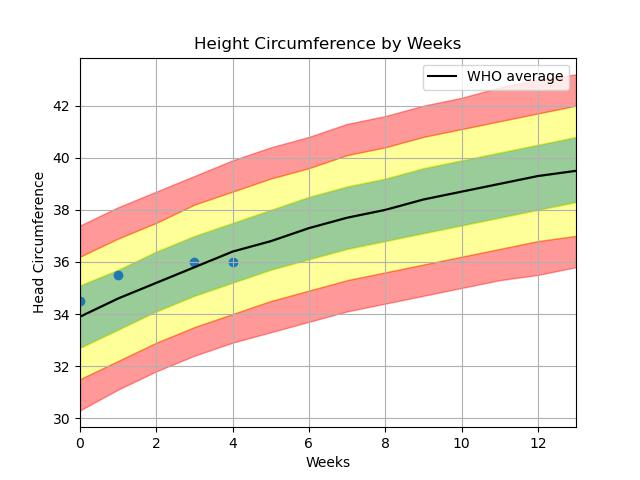
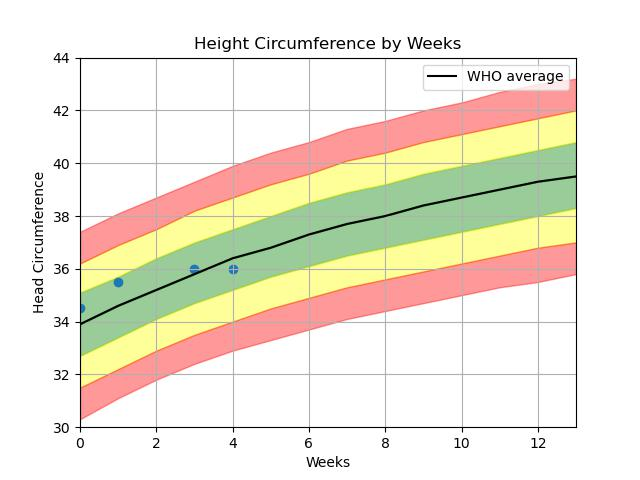
added weight/height graf

Changed region(s): [[0.0625, 0.1875, 0.9062, 0.9062], [0.0625, 0.0938, 0.125, 0.125], [0.875, 0.1562, 0.9062, 0.1875]]

diff --git a/templates/dashboard.html b/templates/dashboard.html
@@ -4,20 +4,43 @@
 <head>
     <meta charset="UTF-8">
     <title>Baby Dashboard</title>
+    <style>
+        * {
+            box-sizing: border-box;
+        }
 
+        .column {
+            float: left;
+            width: 33.33%;
+            padding: 5px;
+        }
+
+        /* Clearfix (clear floats) */
+        .row::after {
+            content: "";
+            clear: both;
+            display: table;
+        }
+    </style>
 </head>
 
 <body>
     <h1>This is a graph of the weight</h1>
     <div class="row">
         <div class="column">
-            <img src="/static/weight.jpg" style="width:20%">
+            <img src="/static/weight.jpg">
         </div>
         <div class="column">
-            <img src="/static/height.jpg" style="width:20%">
+            <img src="/static/height.jpg">
         </div>
         <div class="column">
-            <img src="/static/head.jpg" style="width:20%">
+            <img src="/static/head.jpg">
+        </div>
+    </div>
+
+    <div class="row2">
+        <div class="column">
+            <img src="/static/wh.jpg">
         </div>
     </div>
 </body>

diff --git a/app/plot_util.py b/app/plot_util.py
@@ -19,6 +19,8 @@ def plot_fcn(
     xlabel_name,
     ylabel_name,
     title_name,
+    xmin=0,
+    xmax=13,
 ):
     plt.figure()
     plt.fill_between(xx, df.SD0.values, df.SD1.values, color="green", alpha=0.4)
@@ -29,8 +31,8 @@ def plot_fcn(
     plt.fill_between(xx, df.SD2neg.values, df.SD1neg.values, color="yellow", alpha=0.4)
     plt.fill_between(xx, df.SD3neg.values, df.SD2neg.values, color="red", alpha=0.4)
     plt.scatter(x_J, y_J)
-    plt.xlim(xmin=0, xmax=13)
-    # plt.ylim(ymin=y_min, ymax=y_max)
+    plt.xlim(xmin=xmin, xmax=xmax)
+    plt.ylim(ymin=y_min, ymax=y_max)
     plt.grid()
     plt.xlabel(xlabel_name)
     plt.ylabel(ylabel_name)
@@ -89,7 +91,7 @@ def plot_height(data):
         x_J,
         y_J,
         40,
-        69,
+        67,
         ARTIFACT_PATH,
         "height.jpg",
         "Weeks",
@@ -117,12 +119,43 @@ def plot_head(data):
         df,
         x_J,
         y_J,
-        0,
-        9,
+        30,
+        44,
         ARTIFACT_PATH,
         "head.jpg",
         "Weeks",
         "Head Circumference",
         "Height Circumference by Weeks",
+    )
+    return
+
+
+def plot_wh(weight_data, height_data):
+    PROJECT_PATH = pathlib.Path(__file__).resolve().parent.parent
+    SOURCE_DATA_FILE = PROJECT_PATH / "data/wfl_girls_0-to-2-years_zscores.csv"
+    ARTIFACT_PATH = PROJECT_PATH / "static"
+
+    df = pd.read_csv(SOURCE_DATA_FILE)
+    del_cols = ["L", "M", "S"]
+    df = df.drop(columns=del_cols)
+    xx = df.Length.values
+
+    x_J = height_data["height"].values()
+    y_J = weight_data["weight"].values()
+
+    plot_fcn(
+        xx,
+        df,
+        x_J,
+        y_J,
+        0,
+        12,
+        ARTIFACT_PATH,
+        "wh.jpg",
+        "Height",
+        "Weight",
+        "Weight/Height",
+        xmin=45,
+        xmax=70,
     )
     return

diff --git a/app/main.py b/app/main.py
@@ -9,7 +9,7 @@ from fastapi.templating import Jinja2Templates
 from starlette.responses import FileResponse
 
 from app.data_handler import get_head, get_height, get_weight
-from app.plot_util import plot_head, plot_height, plot_weight
+from app.plot_util import plot_head, plot_height, plot_weight, plot_wh
 
 templates = Jinja2Templates(directory="templates")
 app = FastAPI()
@@ -49,9 +49,22 @@ def baby_head():
     return head_json
 
 
+@app.get("/wh_test")
+def baby_wh():
+    weight_json = get_weight()
+    height_json = get_height()
+    plot_wh(weight_json, height_json)
+    return
+
+
 @app.get("/dashboard")
 def baby_dashboard(request: Request):
     weight_json = get_weight()
     plot_weight(weight_json)
+    height_json = get_height()
+    plot_height(height_json)
+    head_json = get_head()
+    plot_head(head_json)
+    plot_wh(weight_json, height_json)
     return templates.TemplateResponse("dashboard.html", {"request": request})
 
